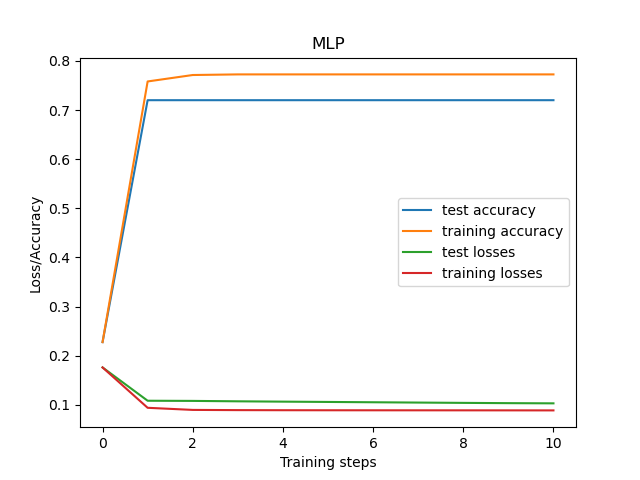
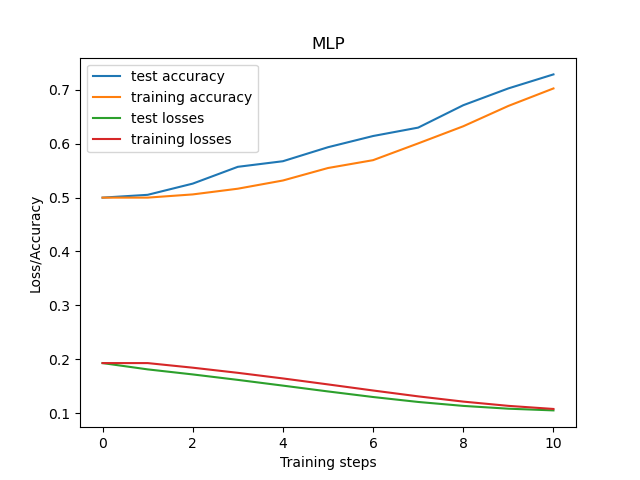
GD, no iter over ds, -> whole array as input, acc can reach 0.8 but often ~0.5

diff --git a/model_pkg/VanillaTrainer.py b/model_pkg/VanillaTrainer.py
@@ -132,43 +132,16 @@ class VanillaTrainer():
             test_loss (float): average loss from output to target
             test_accuracy (float): average accuracy of output
         """
-
-        test_accuracy_aggregator = []
-        test_loss_aggregator = []
-
-        inputs_batch, targets_batch = ds
-
         
-        for input, target in (zip(tqdm(inputs_batch, desc='testing'), targets_batch)):
-            
-            #  print("INPUT", input)
-            # forward pass to get prediction
-            prediction = self.arc(input)
-            #  print("Pred", prediction)
+        inputs, targets = ds
+        predictions = self.arc(inputs)
+        loss = self.loss_func(predictions, targets)
+        accuracy =  targets == np.round(predictions, 0)
+        accuracy = np.mean(accuracy)
 
-            # print("tar", target)
-
-            # get loss
-            sample_test_loss = self.loss_func(prediction, target)
-            # get accuracy
-            sample_test_accuracy =  target == np.round(prediction, 0)
-
-            #  print("sample_test_accuracy", sample_test_accuracy)
-            sample_test_accuracy = np.mean(sample_test_accuracy)
-
-            # print("sample_test_accuracy np mean" , sample_test_accuracy)
-
-            test_loss_aggregator.append(sample_test_loss)
-#                test_loss_aggregator.append(sample_test_loss.numpy())
-
-
-            # print("np.mean(sample_test_accuracy", np.mean(sample_test_accuracy))
-            test_accuracy_aggregator.append(np.mean(sample_test_accuracy))  
-
-        # return averages per batch
-        test_loss = tf.reduce_mean(test_loss_aggregator)
-        test_accuracy = tf.reduce_mean(test_accuracy_aggregator)
-        return test_loss, test_accuracy
+        loss_mean = np.mean(loss)  
+        acc_mean = np.mean(accuracy)
+        return loss_mean, acc_mean
 
     def train_step(self, ds):
         """Implements train step for batch of datasamples
@@ -178,37 +151,34 @@ class VanillaTrainer():
         Returns:
             loss (float): average loss before after train step
         """
+        
         inputs, targets = ds    
-        losses_aggregator = []
-        accuracy_aggregator = []
-       # print(inputs)
-        for input, target in zip(inputs, targets):
+     
 
-              with tf.GradientTape() as tape:
-                    # forward pass to get prediction
-                    print("in")
-                    print(input)
-                    print(type(input))
-                    print("out")
-                    print(target)
-                    print(type(target))
-                    prediction = self.arc(input)
-                    # get loss
-                    loss = self.loss_func(prediction, target)
-                    losses_aggregator.append(loss)
-                    accuracy =  target == np.round(prediction, 0)
-                    accuracy = np.mean(accuracy)
-                    accuracy_aggregator.append(accuracy)
-                    # get gradients
-                    gradients = tape.gradient(loss, self.arc.trainable_variables)
+        with tf.GradientTape() as tape:
+            # forward pass to get prediction
+            
+            prediction = self.arc(inputs)
+            # get loss
+            loss = self.loss_func(prediction, targets)
+            print("FUCKOFF", inputs.shape)
+            # print("inputs", inputs.shape)
+            # print("targets", targets)
+            print("loss", loss)
+            # losses_aggregator.append(loss)
+            accuracy =  targets == np.round(prediction, 0)
+            accuracy = np.mean(accuracy)
+            # accuracy_aggregator.append(accuracy)
+            # get gradients
+            gradients = tape.gradient(loss, self.arc.trainable_variables)
 
               # adapt the trainable variables with gradients 
-              self.optimizer_func.apply_gradients(zip(gradients, self.arc.trainable_variables))  
+            self.optimizer_func.apply_gradients(zip(gradients, self.arc.trainable_variables))  
 
-        # return average loss
-        loss = tf.reduce_mean(losses_aggregator)
-        acc_mean = np.mean(accuracy_aggregator)
-        return loss, acc_mean
+            # return average loss
+            loss = tf.reduce_mean(loss)
+            acc_mean = np.mean(accuracy)
+            return loss, acc_mean
 
 
     def error_function(self, prediction, targets):
